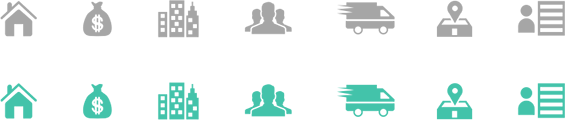
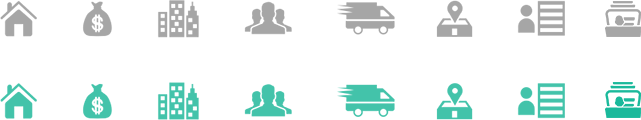
活动商家分类

diff --git a/app/assets/stylesheets/admin.scss b/app/assets/stylesheets/admin.scss
@@ -164,11 +164,11 @@ header{ background: #2e2e2e;}
     width: 60px;
     &.selected,&:hover{
       a:before{
-          background-position: -426px -83px;
+          background-position: -594px -83px;
       }
     }
     > a:before{
-        background-position: -426px 0;
+        background-position: -594px 0;
     }
 }
 

diff --git a/config/navigation.rb b/config/navigation.rb
@@ -78,8 +78,6 @@ SimpleNavigation::Configuration.run do |navigation|
         if: -> { can?(:revenues, CityManager) }
     end
 
-    primary.item :promotion_activity, '商家活动', admin_promotion_activities_path, if: -> { can?(:read, PromotionActivity) }
-
     # Add an item which has a sub navigation (same params, but with block)
     primary.item :seller, '电商店铺', '#', {} do |sub_nav|
       # Add an item to the sub navigation (same params again)
@@ -125,6 +123,16 @@ SimpleNavigation::Configuration.run do |navigation|
 
       sub_nav.item :s_store,   '设置', edit_admin_service_store_path(current_user.service_store),
         if: -> { can?(:manage, ServiceStore) }
+    end
+
+    primary.item :promotion_activity, '活动商家', '#', {} do |sub_nav|
+      sub_nav.item :s_published_activities, '参与中', admin_promotion_activities_path(type: 'published'),
+        highlights_on: /type=published/,
+        if: -> { can?(:read, PromotionActivity) }
+
+      sub_nav.item :s_unpublish_activities, '已下架', admin_promotion_activities_path(type: 'unpublish'),
+        highlights_on: /type=unpublish/,
+        if: -> { can?(:read, PromotionActivity) }
     end
 
     # You can also specify a condition-proc that needs to be fullfilled to display an item.

diff --git a/app/controllers/admin/promotion_activities_controller.rb b/app/controllers/admin/promotion_activities_controller.rb
@@ -4,7 +4,11 @@ class Admin::PromotionActivitiesController < AdminController
   before_action :set_activity_info, only: [:new, :show]
 
   def index
-    @promotion_activities = @promotion_activities.includes(:user, :activity_infos).page(params[:page] || 1)
+    if ["published", "unpublish"].include?(params[:type])
+      @promotion_activities = @promotion_activities.try(params[:type]).includes(:user, :activity_infos).page(params[:page] || 1)
+    else
+      raise "invalid promotion_activities state"
+    end
   end
 
   def create
